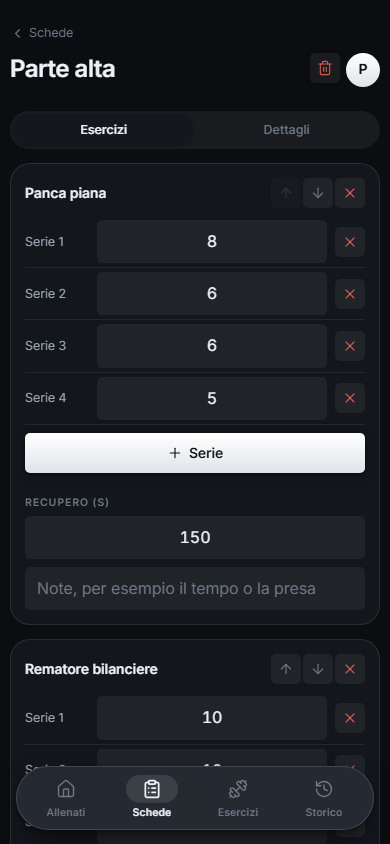
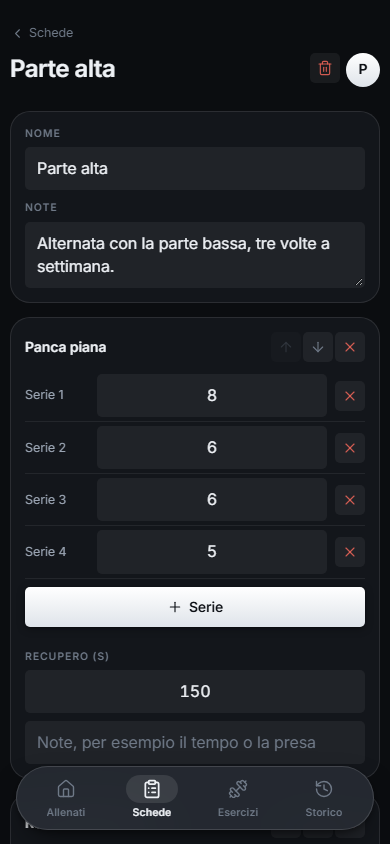
A plan's name and notes at the top of its page, not behind a tab
The «Dettagli» tab hid where a plan is renamed: name and notes now come
first, above the exercises.

Claude-Session: https://claude.ai/code/session_01Sn1RLxjAbLJ5UriTa1GrsH

diff --git a/frontend/src/components/plans/PlansPage.test.ts b/frontend/src/components/plans/PlansPage.test.ts
@@ -42,11 +42,8 @@ const status = () => screen.getByRole('status', { name: 'Salvataggio' });
 const confirmTake = async (user: ReturnType<typeof userEvent.setup>) =>
   user.click(within(await screen.findByRole('alertdialog')).getByRole('button', { name: 'Togli' }));
 const pause = () => new Promise((resolve) => setTimeout(resolve, 800));
-/** Opens the tab with the plan's own details, once it is loaded; gives back its name field. */
-async function details(): Promise<HTMLElement> {
-  await userEvent.setup().click(await screen.findByRole('tab', { name: 'Dettagli' }));
-  return screen.getByPlaceholderText(NAME);
-}
+/** The plan's name field, at the top of the page, once it is loaded. */
+const details = (): Promise<HTMLElement> => screen.findByPlaceholderText(NAME);
 
 describe('the plans', () => {
   it('are listed by name, each saying what is in it', async () => {
@@ -150,7 +147,7 @@ describe('a plan being written', () => {
     const last = within(screen.getByRole('dialog', { name: 'Aggiungi alla scheda' }));
     await user.type(last.getByPlaceholderText('Nuovo esercizio'), 'Rematore');
     await user.click(last.getByRole('button', { name: 'Crea e aggiungi' }));
-    await user.type(screen.getAllByLabelText('Note')[2]!, 'lento');
+    await user.type(screen.getAllByLabelText('Note')[3]!, 'lento');
 
     await settled(() => expect(planChanges(api).at(-1)?.body).toMatchObject({ exercises: [{}, {}, { notes: 'lento' }] }));
     expect(planChanges(api).every((change) => change.route === 'PUT /plans/9')).toBe(true);
@@ -307,25 +304,29 @@ describe('a saved plan', () => {
     expect(await screen.findByRole('heading', { name: 'Forza' })).toBeInTheDocument();
     expect(setReps()).toEqual(['5', '5', '5', '5', '3', '8', '8', '8', '8', '8', '8']);
     expect(screen.getAllByLabelText('Recupero (s)').map((input) => (input as HTMLInputElement).value)).toEqual(['180', '90', '90']);
-    expect(screen.getAllByLabelText('Note').map((input) => (input as HTMLInputElement).value)).toEqual(['', '', 'lento']);
+    // the plan's notes first, then each exercise's
+    expect(screen.getAllByLabelText('Note').map((input) => (input as HTMLInputElement).value)).toEqual(['3 volte', '', '', 'lento']);
     expect(await details()).toHaveValue('Forza');
-    expect(screen.getByLabelText('Note')).toHaveValue('3 volte');
   });
 
-  it('opens on its exercises; its own details sit in a tab of their own, not above them', async () => {
+  it('shows its name and notes at the top, above the exercises, with no tabs to look behind', async () => {
     fakeApi().on('GET /plans/5', FORZA);
     render(Host, { page: PlanEditorPage, params: { id: 5 } });
-    await screen.findByRole('heading', { name: 'Forza' });
-    expect(screen.getByRole('tab', { name: 'Esercizi' })).toHaveAttribute('aria-selected', 'true');
-    expect(screen.queryByPlaceholderText(NAME)).not.toBeInTheDocument();
-    expect(screen.getAllByLabelText('Recupero (s)')).toHaveLength(3);
-    await details();
-    expect(screen.getByRole('tab', { name: 'Dettagli' })).toHaveAttribute('aria-selected', 'true');
-    expect(screen.queryByRole('switch')).not.toBeInTheDocument();
-    expect(screen.queryByLabelText('Recupero (s)')).not.toBeInTheDocument();
-    expect(screen.queryByRole('button', { name: 'Aggiungi esercizio' })).not.toBeInTheDocument();
-    await userEvent.setup().click(screen.getByRole('tab', { name: 'Esercizi' }));
-    expect(screen.getAllByLabelText('Recupero (s)')).toHaveLength(3);
+    const name = await details();
+    expect(screen.queryByRole('tab')).not.toBeInTheDocument();
+    const first = screen.getAllByLabelText('Recupero (s)')[0]!;
+    expect(name.compareDocumentPosition(first) & Node.DOCUMENT_POSITION_FOLLOWING).toBeTruthy();
+  });
+
+  it('is renamed from the top of the page, and the title follows', async () => {
+    const api = fakeApi().on('GET /plans/5', FORZA).on('PUT /plans/5', (call: Call) => ({ ...FORZA, ...(call.body as object) }));
+    render(Host, { page: PlanEditorPage, params: { id: 5 } });
+    const user = userEvent.setup();
+    const name = await details();
+    await user.clear(name);
+    await user.type(name, 'Gambe');
+    expect(screen.getByRole('heading', { name: 'Gambe' })).toBeInTheDocument();
+    await settled(() => expect(planChanges(api).at(-1)?.body).toMatchObject({ name: 'Gambe' }));
   });
 
   it('adds sets inside the exercise card with a primary button; exercises, outside the cards, with a secondary one', async () => {

diff --git a/frontend/src/components/plans/PlanEditorPage.svelte b/frontend/src/components/plans/PlanEditorPage.svelte
@@ -14,7 +14,6 @@
   import PageShell from '../PageShell.svelte';
   import Loader from '../Loader.svelte';
   import SaveStatus from '../SaveStatus.svelte';
-  import Tabs from '../Tabs.svelte';
   import TextField from '../TextField.svelte';
   import { ui } from '../../lib/ui.svelte';
   import ExercisePicker from '../exercises/ExercisePicker.svelte';
@@ -24,17 +23,13 @@
    * ripetizioni e recupero. Una scheda è un allenamento.
    *
    * Una scheda nuova si crea su richiesta: nome, note e «Crea la scheda».
-   * Creata, la pagina diventa la sua e si apre sugli esercizi: il nome e le
-   * note sono già scritti, e stanno in «Dettagli» invece di ripetersi sopra. Da lì si salva da sé mentre la
-   * scrivi, tutta insieme (`Autosave`): nessun tasto «Salva». Quello che il
+   * Creata, la pagina diventa la sua: in cima il nome e le note, da
+   * cambiare lì, poi gli esercizi. Da lì si salva da sé mentre la scrivi, tutta insieme (`Autosave`): nessun tasto «Salva». Quello che il
    * server rifiuterebbe si dice prima, e non parte.
    */
   let { id }: { id: number | null } = $props();
 
   let draft = $state<Draft | null>(null);
-  /** Quale parte di una scheda salvata si vede: di solito si torna per gli esercizi. */
-  let part = $state<'esercizi' | 'dettagli'>('esercizi');
-  const PARTS = [{ id: 'esercizi' as const, label: 'Esercizi' }, { id: 'dettagli' as const, label: 'Dettagli' }];
   let error = $state('');
   let working = $state(false);
   /** L'ultima versione mandata, o quella aperta: uguale, non si rimanda. */
@@ -184,9 +179,7 @@
   {:else if !draft && !error}
     <Loader />
   {:else if draft}
-    <div class="parts"><Tabs value={part} options={PARTS} onpick={(id) => (part = id)} label="Parti della scheda" /></div>
-
-    {#if part === 'dettagli'}
+    <!-- il nome si cambia qui, in cima: gli allenamenti fatti con la scheda lo prendono -->
     <PageCard>
       <label class="field">
         <span class="eyebrow">Nome</span>
@@ -197,7 +190,6 @@
         <TextField kind="multiline" bind:value={draft.notes} maxlength={1000} placeholder="Quante volte a settimana, cosa curare" />
       </label>
     </PageCard>
-    {:else}
 
     {#each draft.exercises as exercise, index (exercise.key)}
       <PageCard>
@@ -254,7 +246,6 @@
         <Icon name="plus" /> Aggiungi esercizio
       </Button>
     </span>
-    {/if}
 
     {#if problem}<Alert message={problem} />{/if}
     {#if saver.status === 'error'}<Alert message={saver.error} />{/if}
@@ -268,9 +259,6 @@
 
 <style>
   .create { display: block; }
-
-  /* le linguette stanno nella colonna della pagina: lo spazio sotto lo dà lei, come fra le card */
-  .parts :global(.tabs.pill) { margin-bottom: 0; }
 
   @media (min-width: 601px) { .create { justify-self: end; } }
 

diff --git a/frontend/e2e/mvp.spec.ts b/frontend/e2e/mvp.spec.ts
@@ -343,9 +343,8 @@ test('from the first exercise to the stats of a lift', async ({ page }) => {
   // the browser logs the refused save: that one was asked for
   errors.splice(0, errors.length, ...errors.filter((error) => !error.includes('503')));
 
-  // A change made just before leaving is not lost; the name sits in «Dettagli», not above the exercises.
-  await expect(page.getByPlaceholder('Spinta, Gambe, Total body')).toHaveCount(0);
-  await page.getByRole('tab', { name: 'Dettagli' }).click();
+  // A change made just before leaving is not lost; the name sits at the top, above the exercises.
+  await page.evaluate(() => window.scrollTo(0, 0));
   await page.getByPlaceholder('Spinta, Gambe, Total body').fill('Forza!');
   await page.getByRole('navigation', { name: 'Sezioni' }).getByRole('link', { name: 'Schede' }).click();
   await expect(page.getByRole('link', { name: /^Forza!/ })).toBeVisible();
